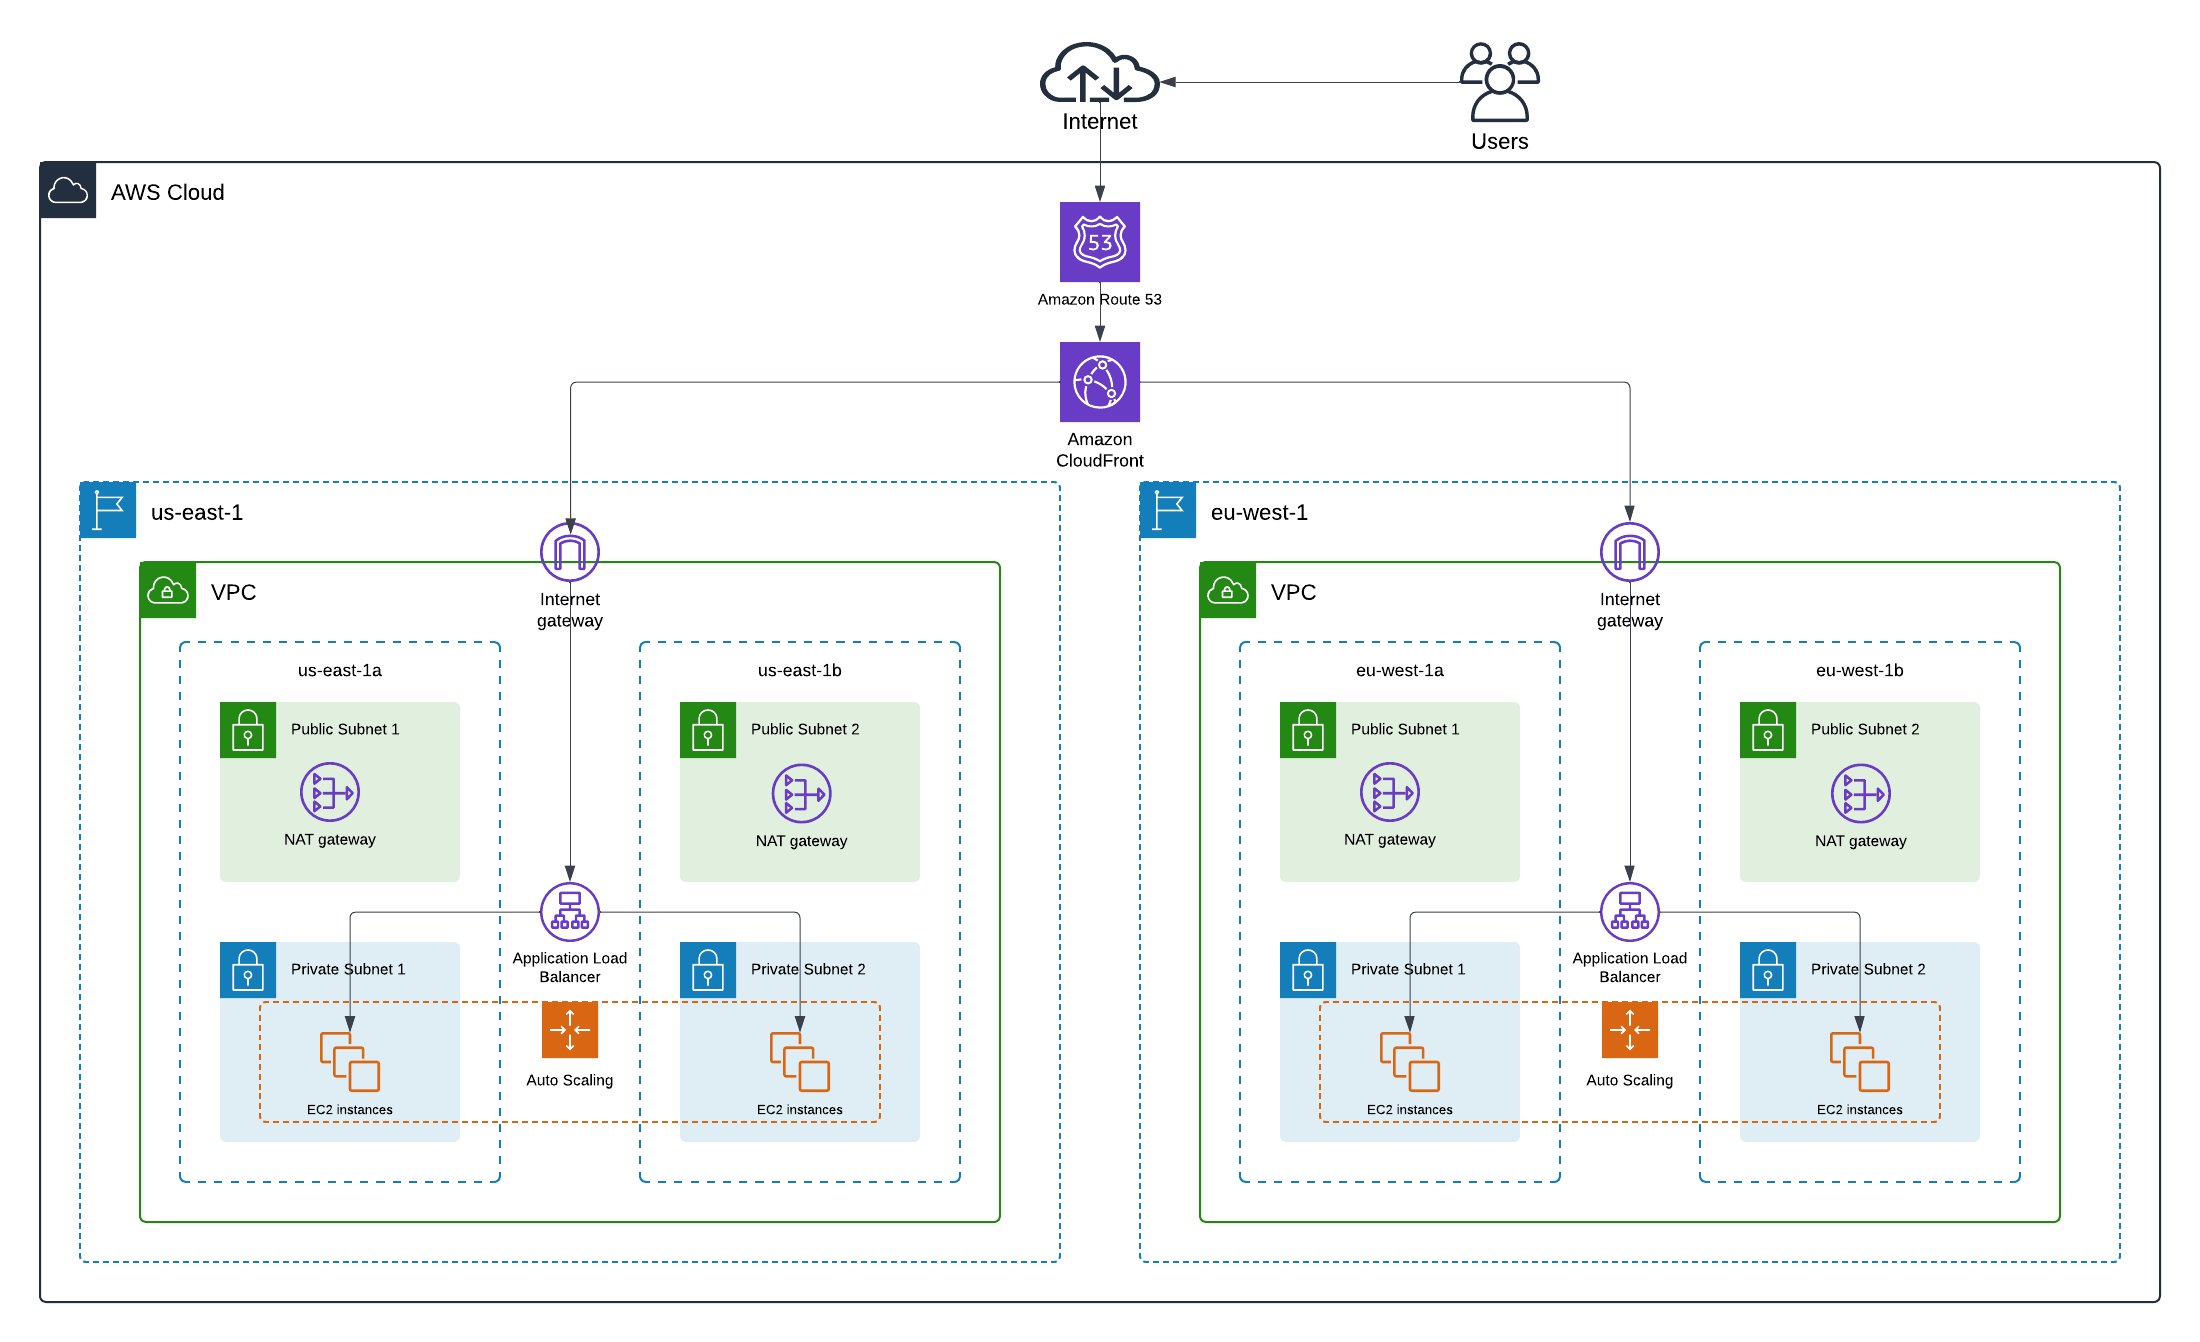
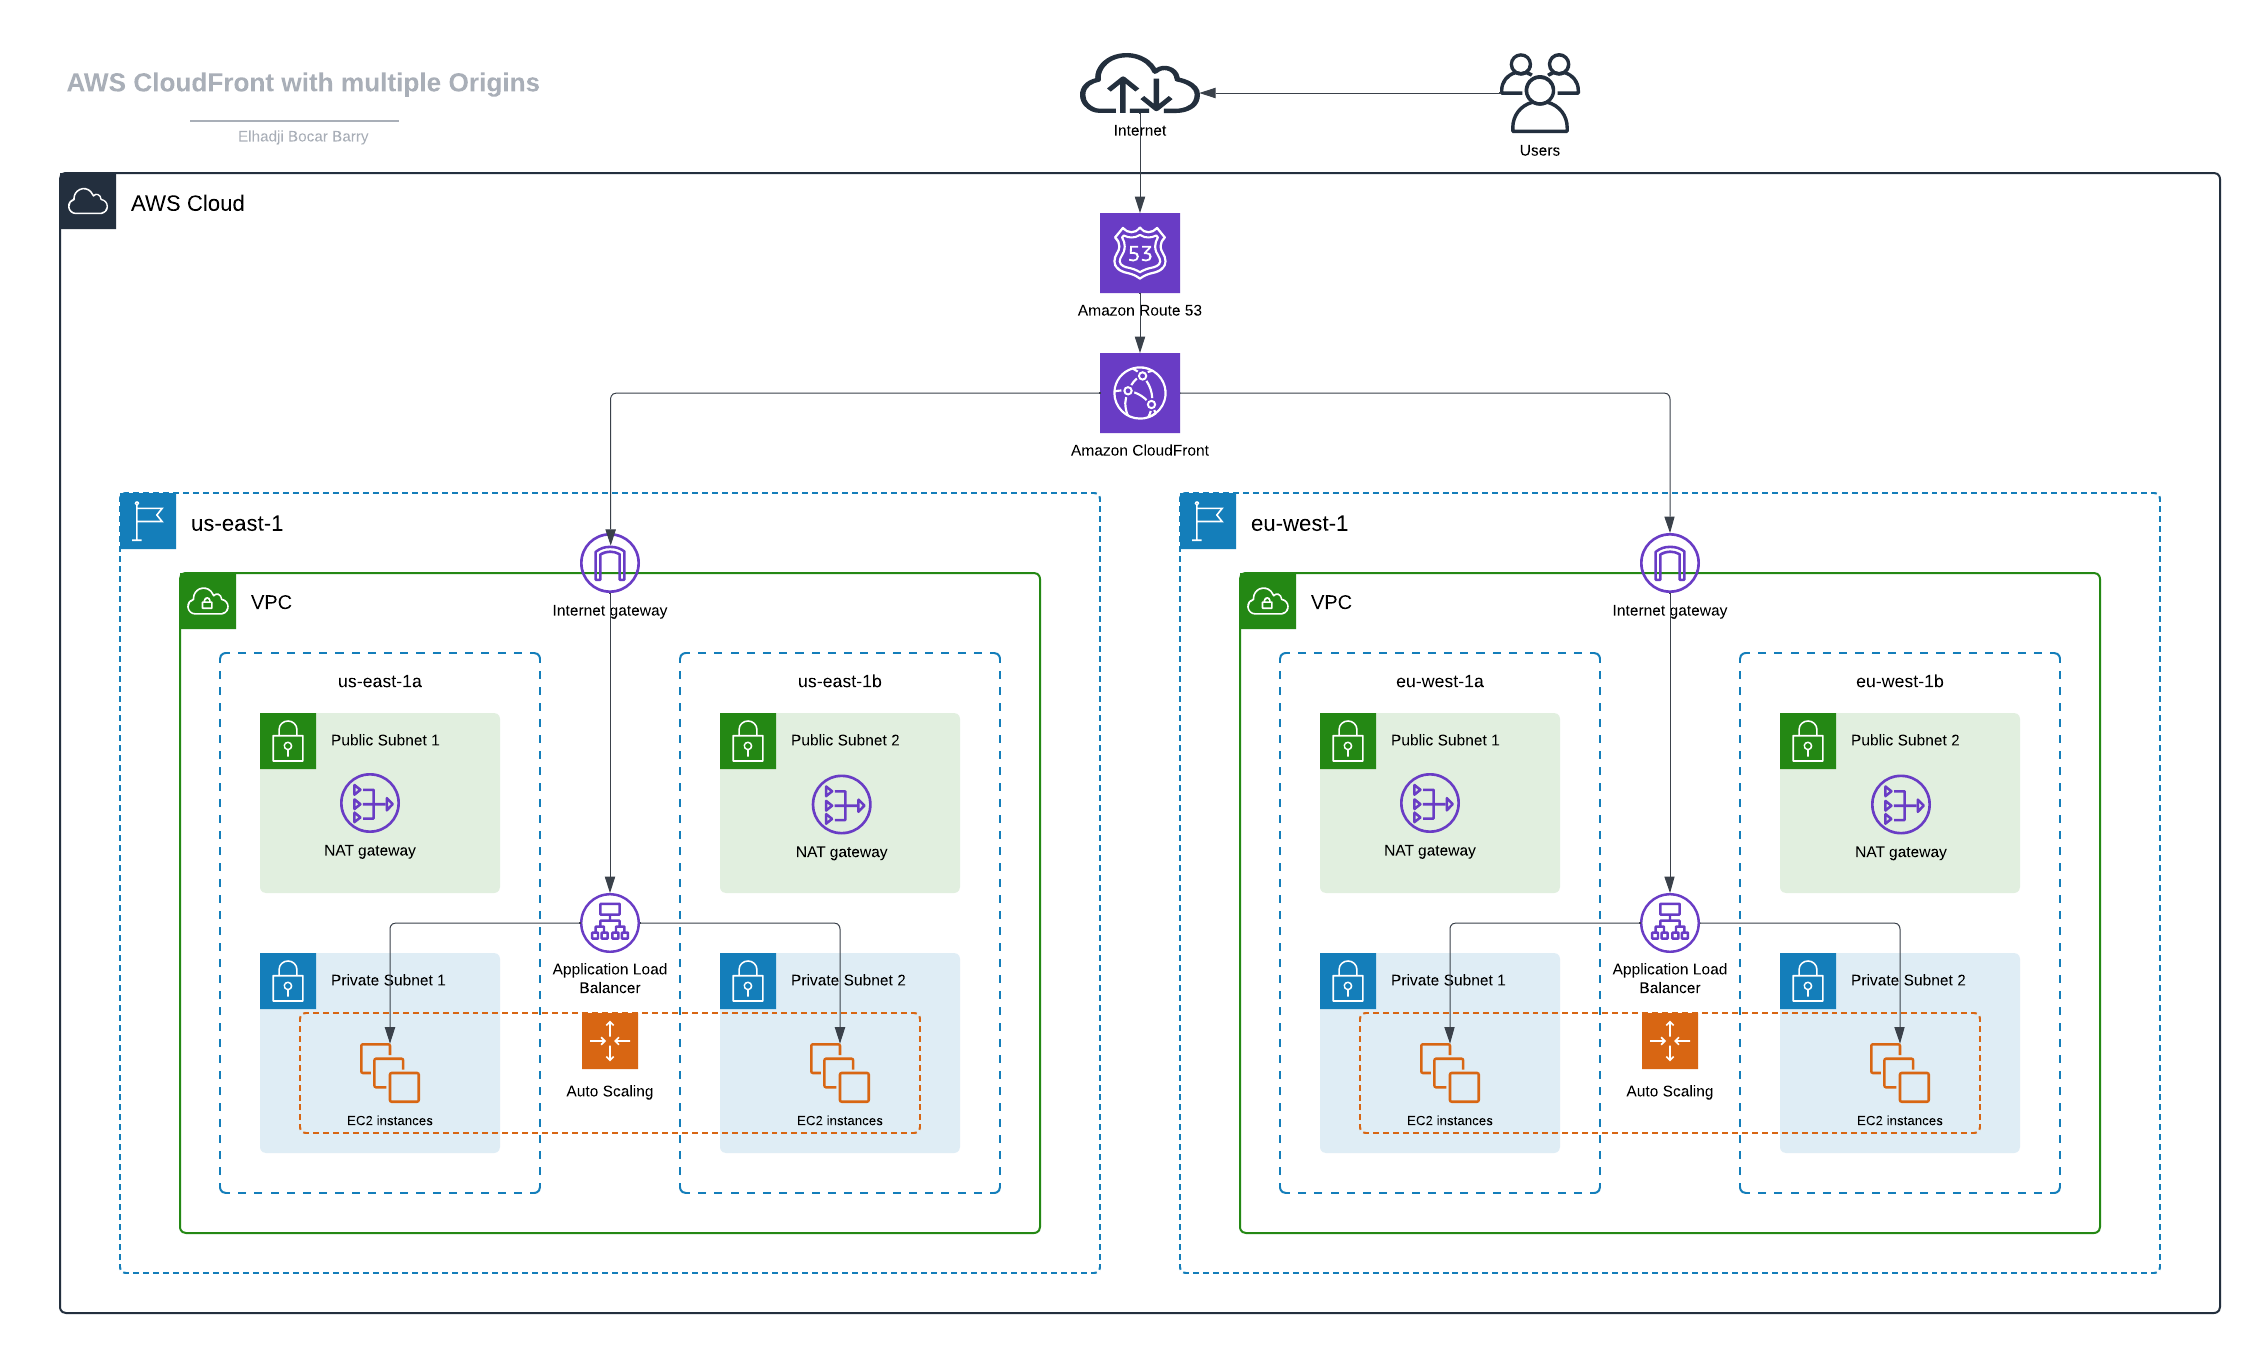
Review the readme

diff --git a/README.md b/README.md
@@ -1,4 +1,4 @@
-# AWS CloudFront with Multiple Origins
+# AWS CloudFront with multiple Origins
 
 AWS CloudFront is a content delivery network (CDN) service provided by Amazon Web Services (AWS). It is designed to deliver web content to users with low latency and high transfer speeds. CloudFront achieves this by caching content at edge locations around the world, which are closer to the end users. By using AWS CloudFront, you can improve the performance, security, and reliability of your web applications.
 
@@ -81,7 +81,7 @@ aws cloudformation create-stack \
 
 ## 2. CloudFront Infrastructure
 
-We will use the [cloudfront](cloudformation/cloudfront.yaml) CloudFormation template to create the CloudFront Infrastructure. This  will deploy a CloudFront distribution using the two application load balancers deployed in the previous step as origins. They will be configured in an origin group for failover handling. The template also creates a Route 53 record that will use your domain name as an alias for the CloudFront distribution.
+We will use the [cloudfront](cloudformation/cloudfront.yaml) CloudFormation template to create the CloudFront Infrastructure. This  will deploy a CloudFront distribution using the two application load balancers deployed in the previous step as origins. They will be configured in an origin group for failover handling. The template also creates a Route 53 record that will use a domain name as an alias for the CloudFront distribution.
 
 ### 2.1 Parameters
 
@@ -146,7 +146,7 @@ When you access the domain name that points to the CloudFront distribution, you 
 
 ### 3.3 Testing the Failover Handling
 
-To test the failover handling, we will use the AWS Management Console to edit the security group of the EC2 instances ("WebApp-EC2-Security-Group") in the primary region and remove the inbound rule that allows HTTP traffic from the ALB. This will simulate a 504 Gateway Timeout error when accessing the domain name. Then the CloudFront distribution will route the traffic to the failover application load balancer in the other region after a few seconds. You can access the domain name many times to see the failover application load balancer distributing the traffic between the EC2 instances in different AZs.
+To test the failover handling, you need to simulate a HTTP 500, 502, 503 or 504 server error as specified in the CloudFormation template of the CloudFront stack. To do that, we will use the AWS Management Console to edit the security group of the EC2 instances ("WebApp-EC2-Security-Group") in the primary region and remove the inbound rule that allows HTTP traffic from the ALB to the EC2 instance. This will simulate a 504 Gateway Timeout error from the Load Balancer when accessing the domain name. Then the CloudFront distribution will route the traffic to the failover application load balancer in the other region after a few seconds. You can access the domain name many times to see the failover application load balancer distributing the traffic between the EC2 instances in different AZs in the failover region.
 
 ![Failover Response AZ1](diagram/failover-response-az1.png)
 
